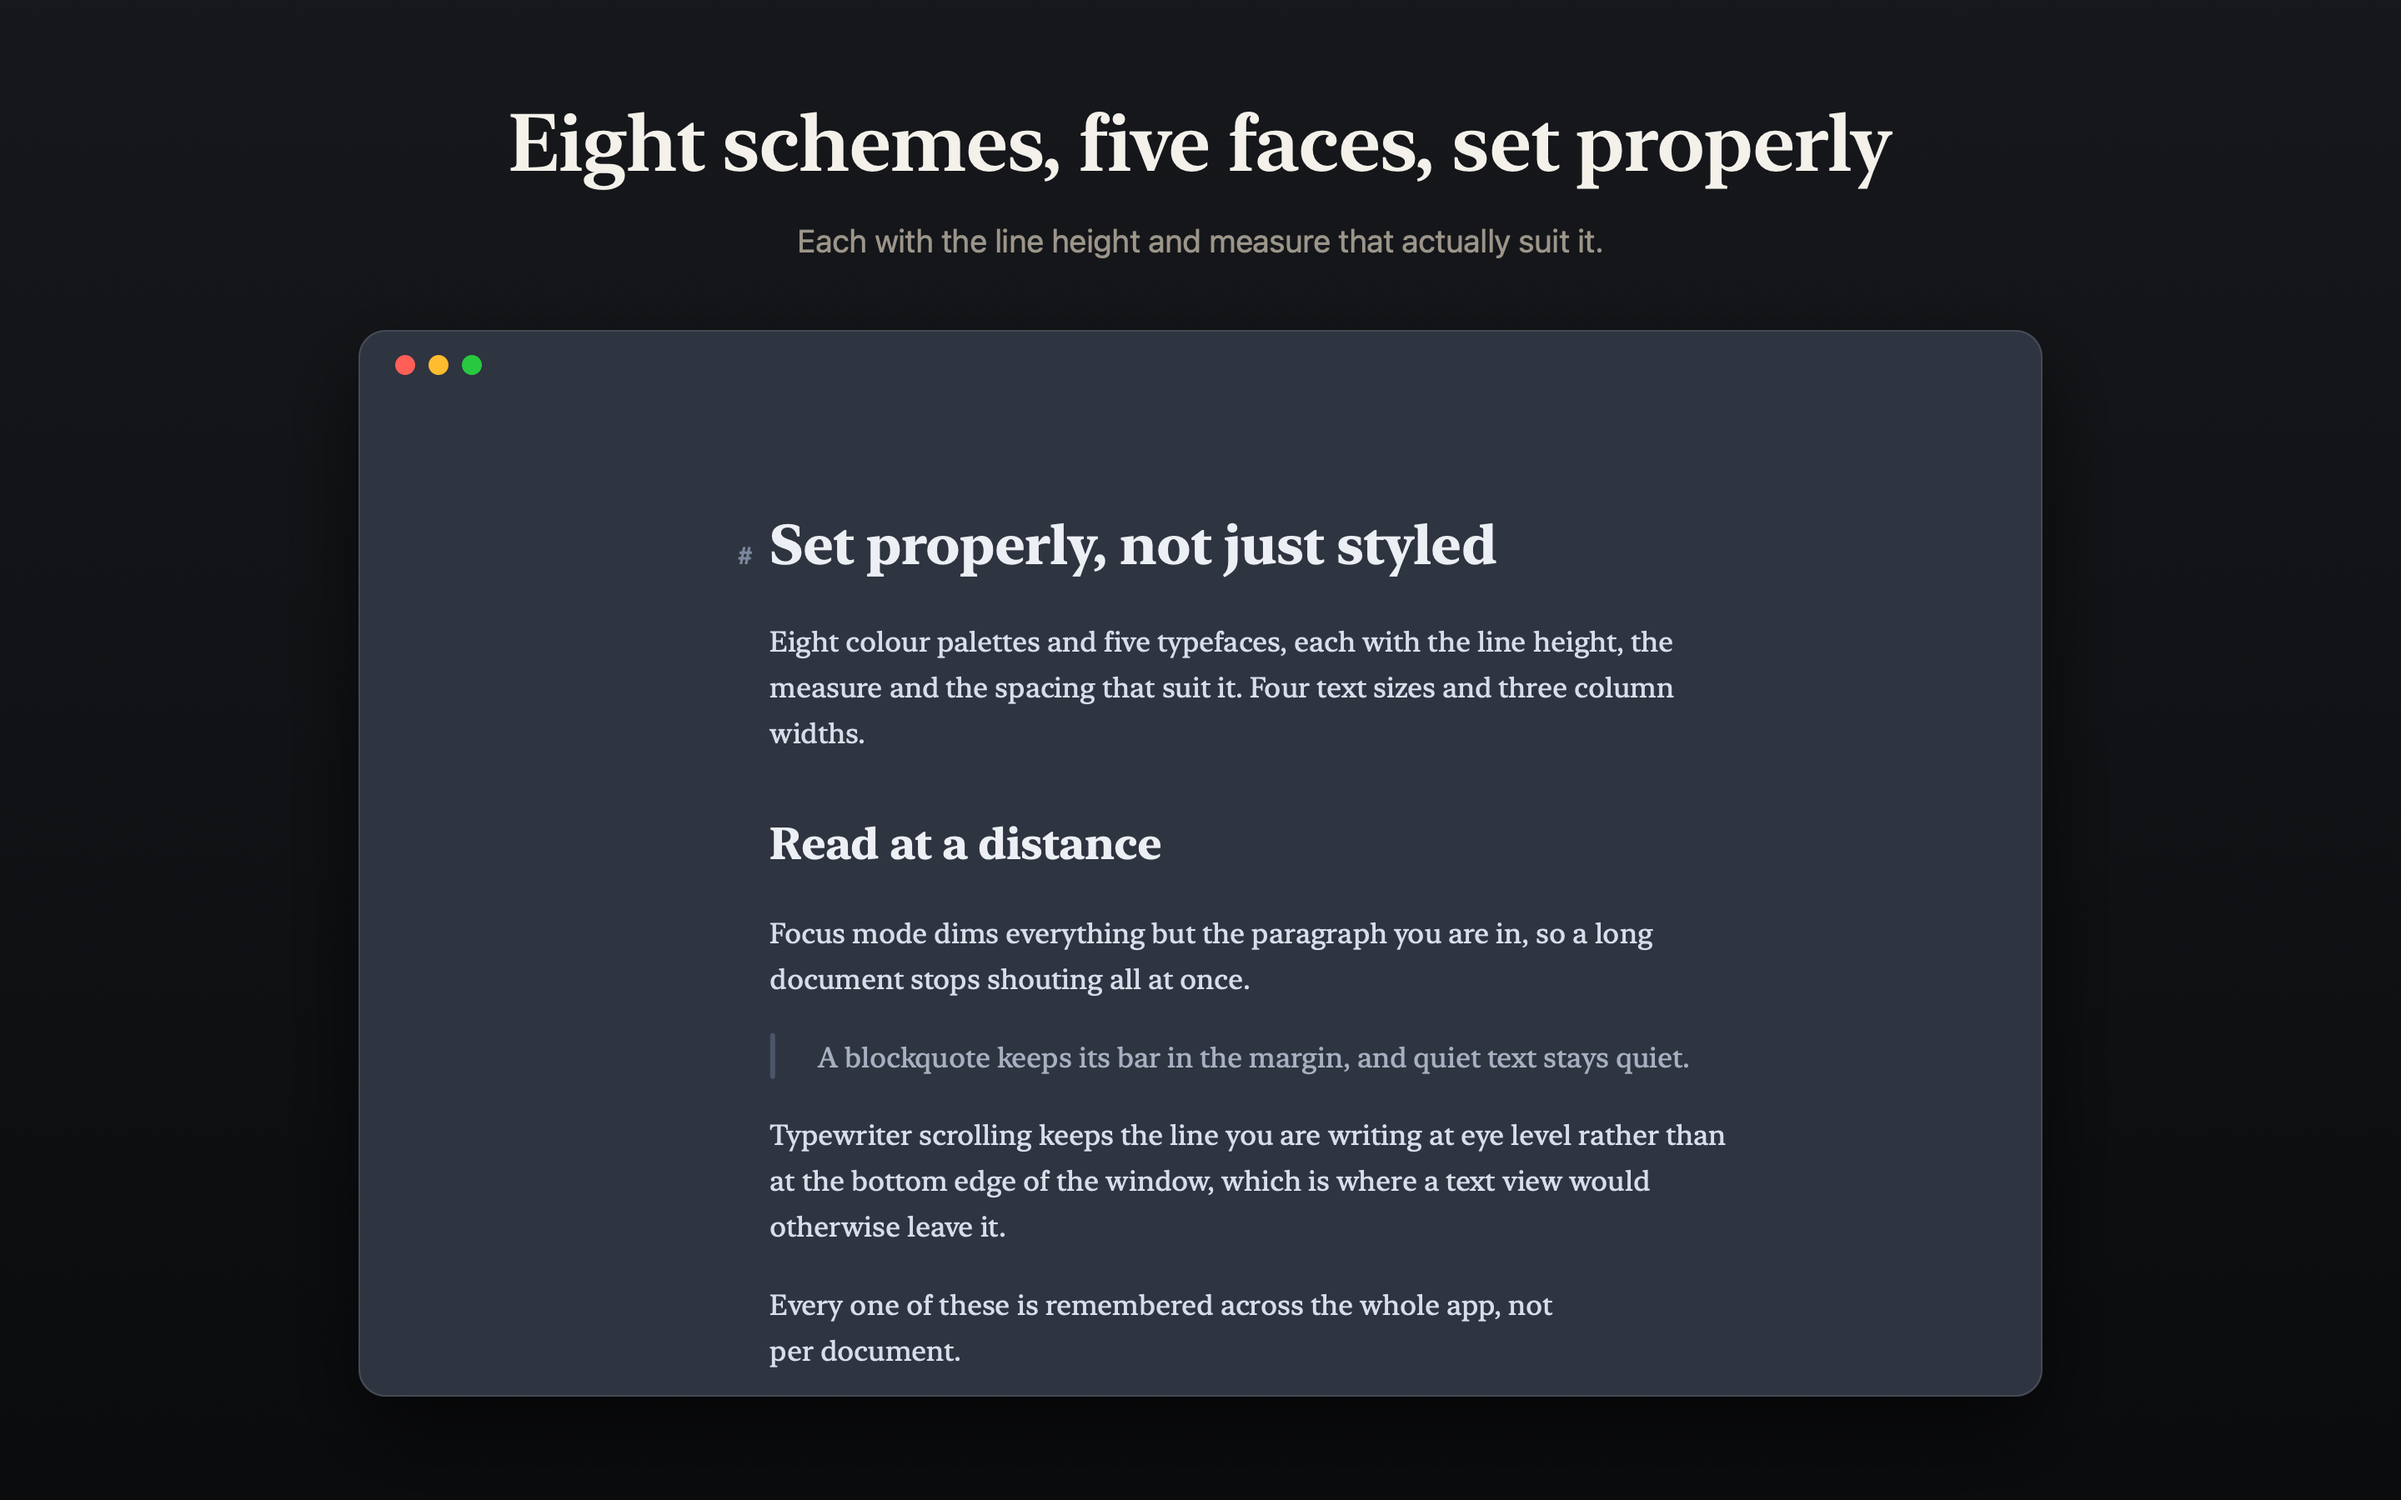
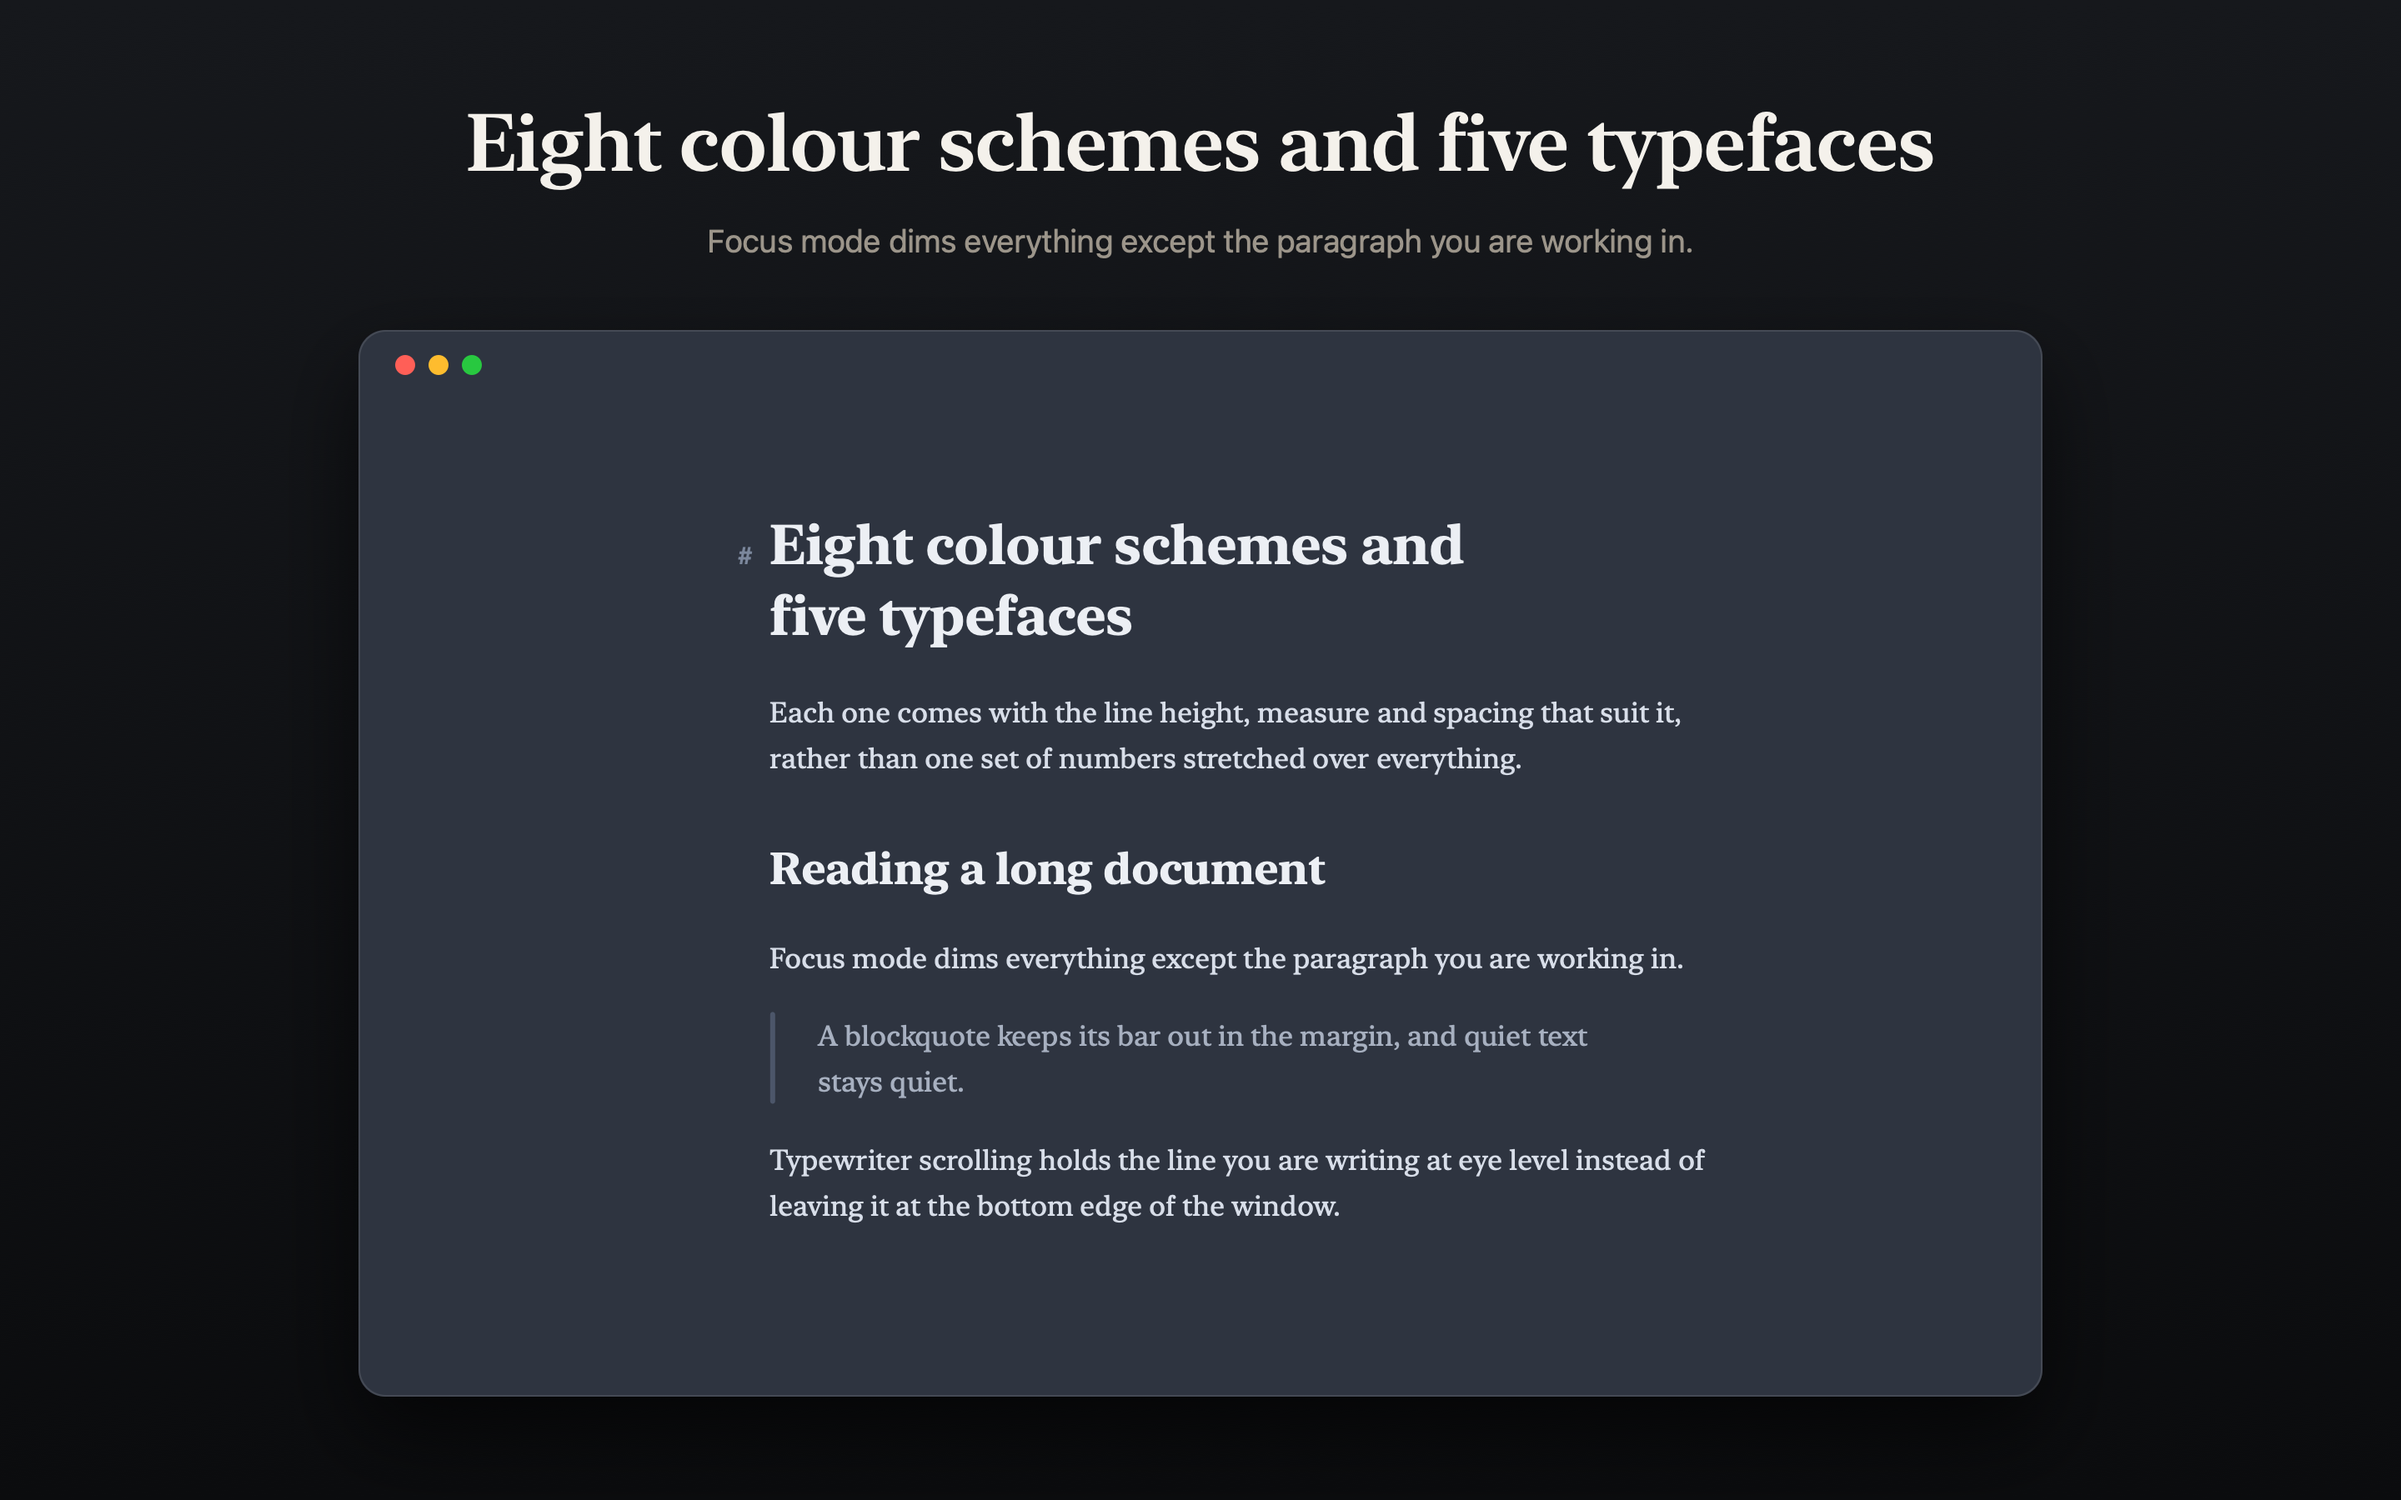
Sell the local file, not the missing network
"It cannot reach the network" reads as a defect. Nobody browsing for an editor
wants to be told what it cannot do. The point is the positive one: plain
Markdown on your own disk, changed in place, still readable by everything else
you own. The entitlement detail is worth keeping but belongs underneath as
support, not as the headline.

"Eight schemes, five faces, set properly" was a triad with a tidy closer, which
is the exact cadence this was supposed to have stopped doing.

diff --git a/store/listing.md b/store/listing.md
@@ -18,12 +18,12 @@ pushed rather than invented at the keyboard.
 
 ## Promotional text
 
-Opens before you've finished letting go of the mouse. About nine hundredths of
-a second, which is faster than your usual editor gets its window on screen.
+Opens faster than you can say Markdown. About nine hundredths of a second from
+double-click to a page you can type on, which is not a figure of speech.
 
 ## Description
 
-Kvill is a Markdown editor for macOS that opens before you've finished letting go of the mouse.
+Kvill is a Markdown editor for macOS. It opens faster than you can say Markdown.
 
 That isn't a figure of speech. Double-click to a page you can type on takes
 about nine hundredths of a second, and a half-megabyte file costs another three
@@ -67,9 +67,12 @@ There's no preview pane, on the grounds that Markdown is already legible. No
 export, no publishing, no plugins, no sidebar, no file browser. One window per
 file, and opening a second file gives you a second window rather than a tab.
 
-It also can't reach the network. Not "doesn't" — can't. The app ships without a
-network entitlement, so macOS refuses the connection on its behalf. That rules
-out analytics and accounts and sync by construction rather than by promise.
+What it does instead is edit the file you opened. Markdown on your own disk,
+changed in place. Nothing to sign into, no library to import into, no copy kept
+anywhere else, and the file stays readable by every other editor you own.
+
+There's no analytics either, and that part isn't a promise: the app ships
+without a network entitlement, so macOS won't let it connect at all.
 
 If you want the things in that list, Byword and iA Writer are very good and
 they cost money. Kvill is free, has nothing to buy, and the source is on

diff --git a/store/shot-4.md b/store/shot-4.md
@@ -1,13 +1,11 @@
-# Set properly, not just styled
+# Eight colour schemes and five typefaces
 
-Eight colour palettes and five typefaces, each with the line height, the measure and the spacing that suit it. Four text sizes and three column widths.
+Each one comes with the line height, measure and spacing that suit it, rather than one set of numbers stretched over everything.
 
-## Read at a distance
+## Reading a long document
 
-Focus mode dims everything but the paragraph you are in, so a long document stops shouting all at once.
+Focus mode dims everything except the paragraph you are working in.
 
-> A blockquote keeps its bar in the margin, and quiet text stays quiet.
+> A blockquote keeps its bar out in the margin, and quiet text stays quiet.
 
-Typewriter scrolling keeps the line you are writing at eye level rather than at the bottom edge of the window, which is where a text view would otherwise leave it.
-
-Every one of these is remembered across the whole app, not per document.
+Typewriter scrolling holds the line you are writing at eye level instead of leaving it at the bottom edge of the window.

diff --git a/store/shot-3.md b/store/shot-3.md
@@ -1,12 +1,12 @@
-# Yours, and only yours
+# Just edit local files
 
-Kvill makes no network connections at all. There is no analytics, no account, no sync, and no entitlement that would let any of that be added later by accident.
+Markdown on your own disk, changed in place. Nothing to sign into, no library to import into, and no copy kept anywhere else.
 
-## It is your file
+## It stays readable
 
-Markdown in, Markdown out. Nothing proprietary, no database, no wrapper around your writing. The document on disk is exactly what you typed, and every other editor can read it.
+The file is exactly what you typed. Every other editor you own can open it, and so can `cat`.
 
 > [!TIP]
-> Free, with no advertising and nothing to buy. The source is open.
+> There is no analytics either, and that part is not a promise: the app ships without a network entitlement, so macOS will not let it connect at all.
 
-Images drop straight in. Links hide their URLs until you need them. Setext headings become ordinary ones on open, because they are awkward to live with.
+Free, nothing to buy, source on GitHub.

diff --git a/store/shot-1.md b/store/shot-1.md
@@ -1,4 +1,4 @@
-# Opens before you let go
+# Opens faster than you can say Markdown
 
 Double-click to a page you can type on takes about nine hundredths of a second. Nothing is being cleverly deferred either: there is no project to open, no workspace to restore and no index to build.
 
